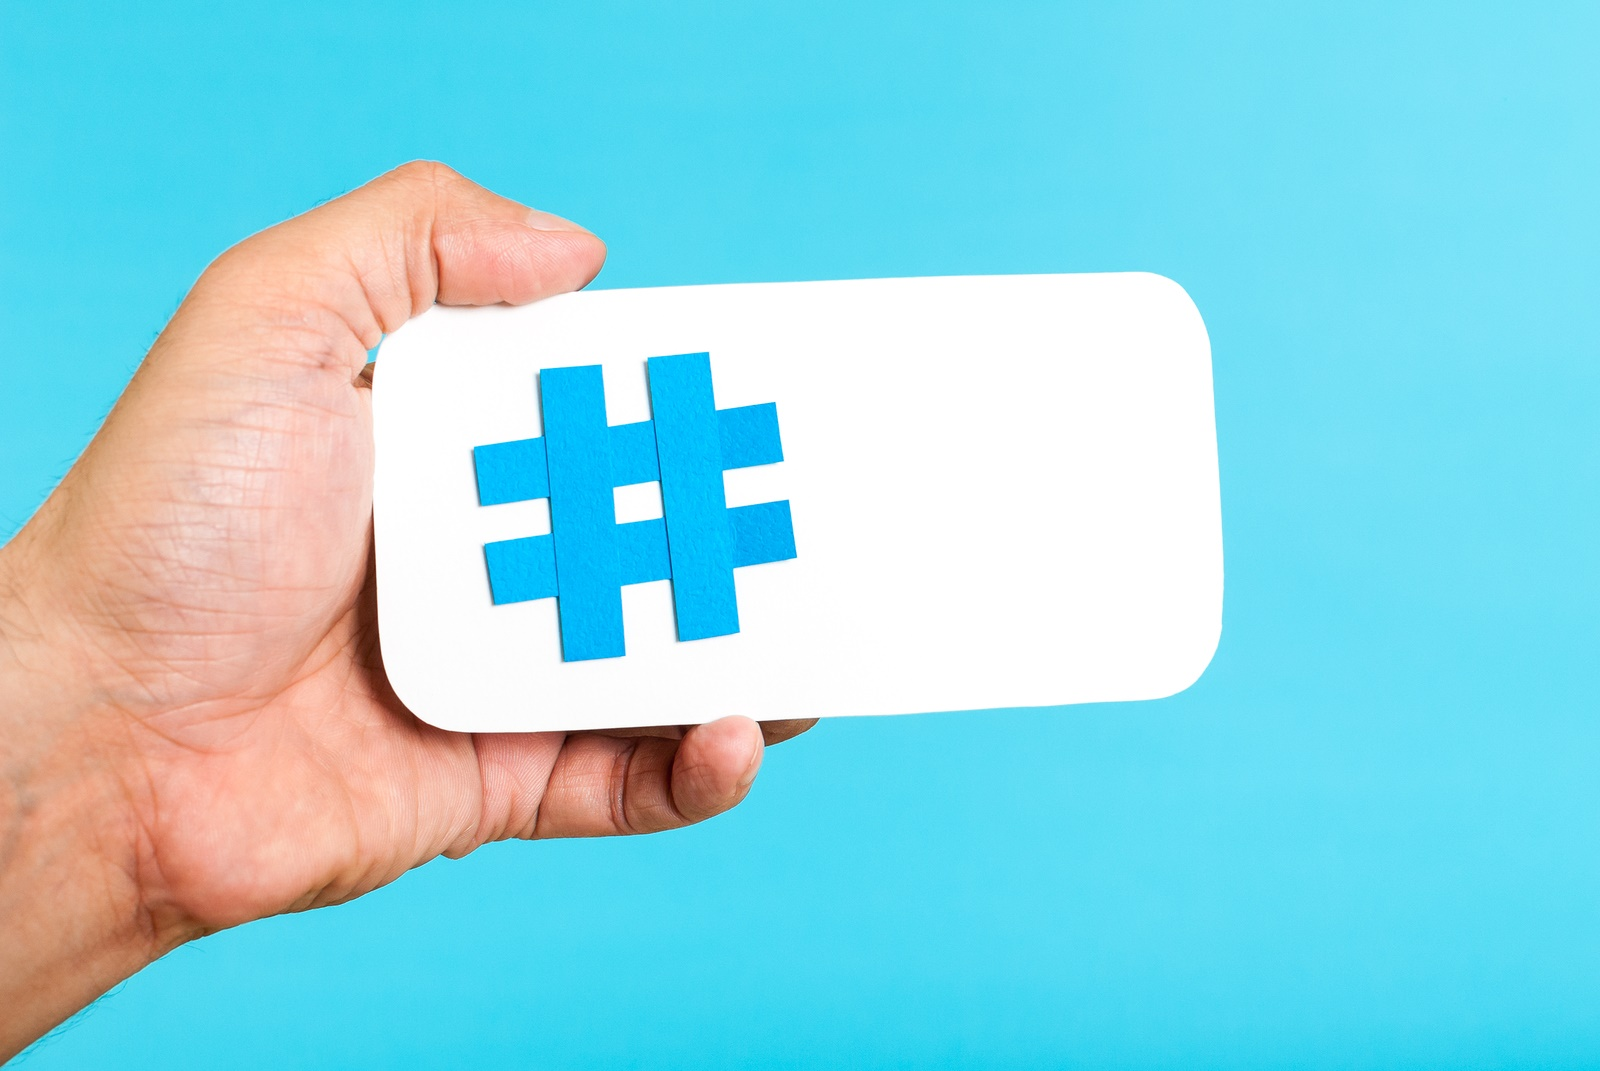
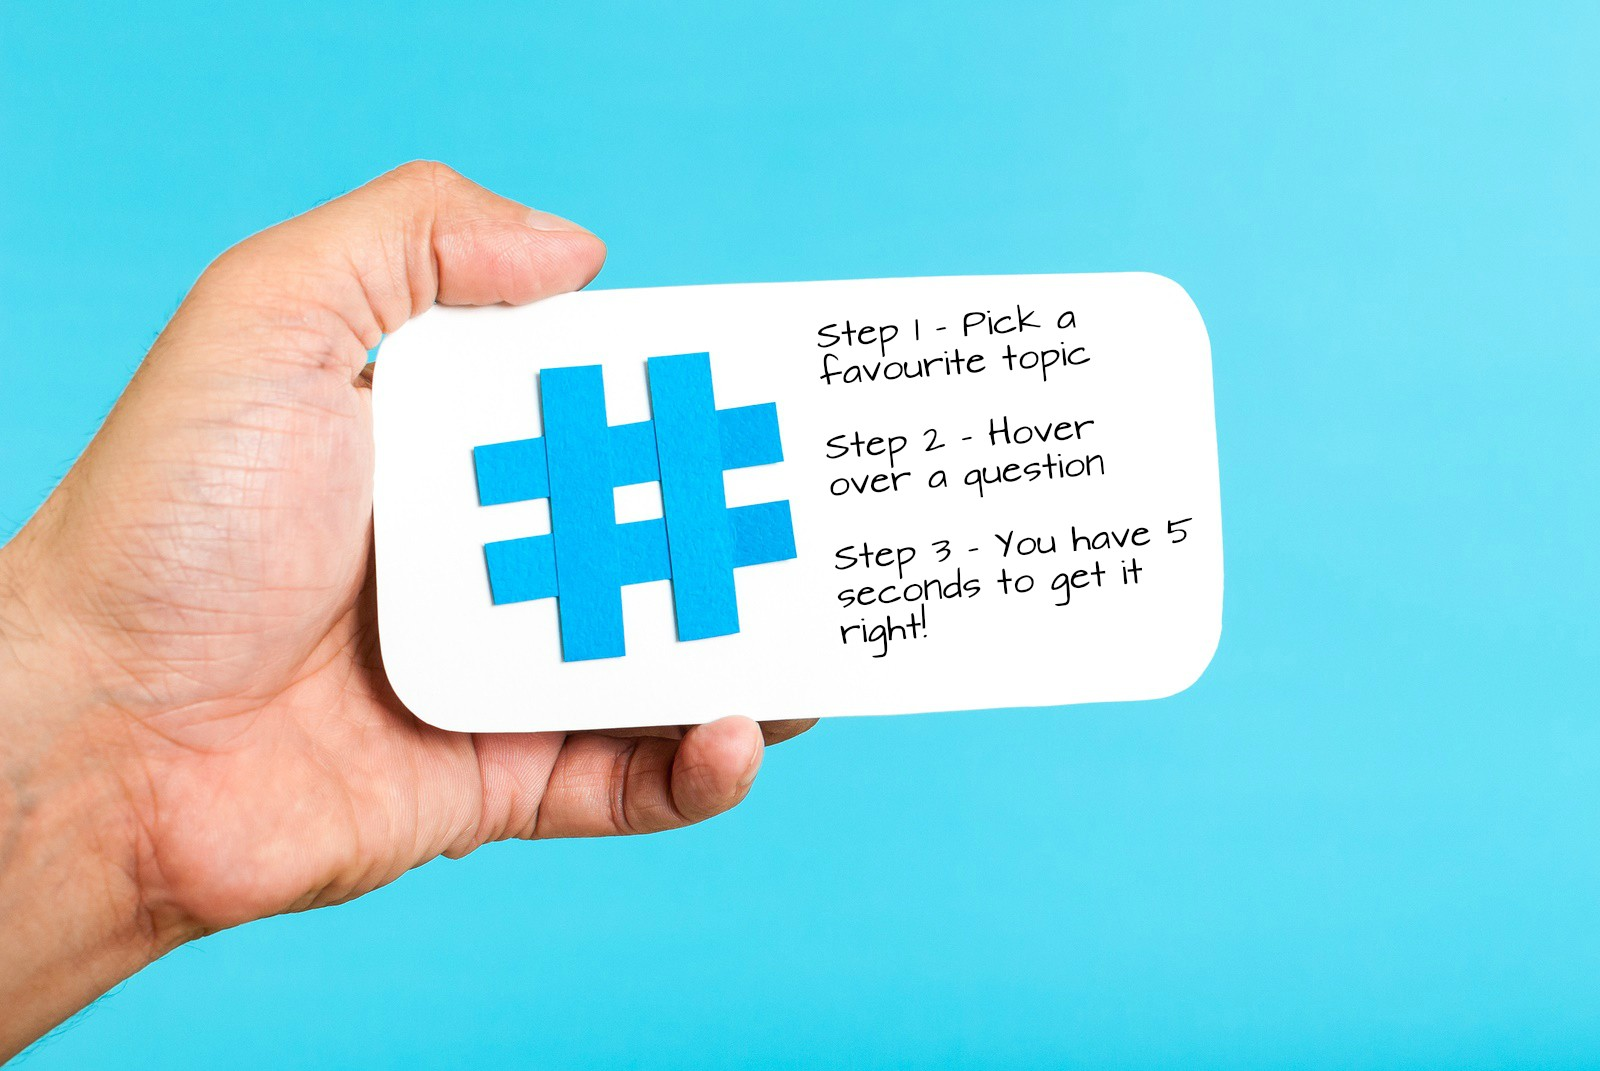
add instructions, midbox, quote and fix up alignment of divs

diff --git a/index.html b/index.html
@@ -4,6 +4,7 @@
   <title>Responsive Web Design</title>
   <link rel="stylesheet" type="text/css" href="css/reset.css">
   <link rel="stylesheet" type="text/css" href="css/style.css">
+  <link href='https://fonts.googleapis.com/css?family=Satisfy' rel='stylesheet' type='text/css'>
 </head>
 <body>
 
@@ -15,7 +16,9 @@
       
   
       <div class="box">
+
           <div class="midbox">
+            <h2>"A people without the knowledge of their past history, origin and culture is like a tree without roots."</h2>
           </div>
 
         <div class="small-box"></div>

diff --git a/css/style.css b/css/style.css
@@ -48,7 +48,7 @@ main{
 
 aside {
     width: 28%;
-    height: 1500px;
+    height: 1448px;
     background: black;
     display: inline-block;
     margin-top: 7px;
@@ -57,10 +57,9 @@ aside {
 
 
 h2 { 
-   position: absolute; 
-   top: 200px; 
-   left: 0; 
-   width: 100%; 
+    font-family: 'Satisfy', cursive; font-weight: 400;
+    color: #FFFFFF;
+    padding: 29px;
 }
 
 
@@ -143,6 +142,7 @@ h2 {
   .small-box{
     width: 100%;
     float: none;
+    margin-top: 14px;
   }
   
   .midbox{
